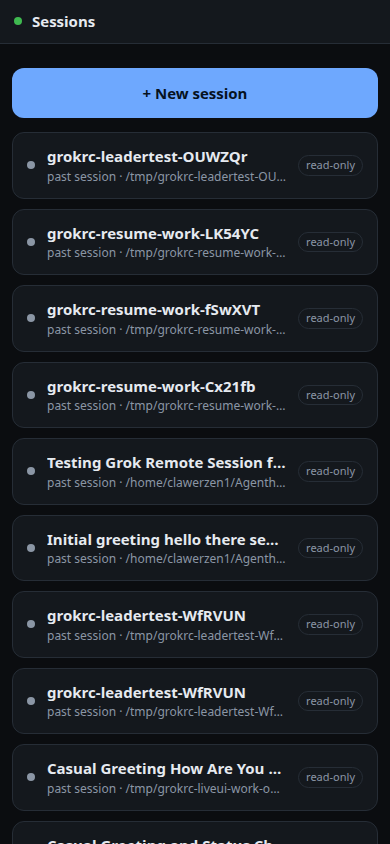
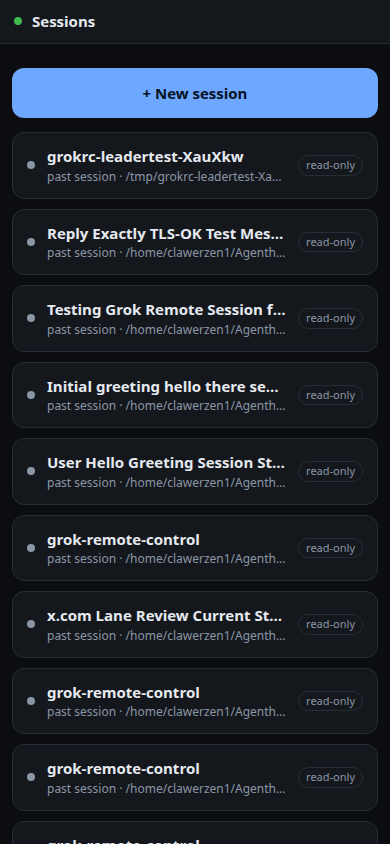
Harden session inputs, cap history, verify the HTTPS path
HTTPS VERIFIED END-TO-END (tools/https-e2e-check.mjs)
  The app is identical over TLS but the transport is not: the client speaks
  wss:// and every frame crosses the Tailscale proxy. If that proxy dropped the
  WebSocket upgrade the page would load and then silently never connect —
  nothing else in the suite covered it. Confirmed against the real origin:
  loads 200, secure context, pairs, wss:// upgrade succeeds, a real turn streams
  back ("TLS-OK"), service worker activated, VAPID fetched, zero console errors.

INPUT HARDENING (test/security.test.ts, 14 cases)
  `observe` and `resume` took a sessionId and cwd straight from the client and
  turned them into a filesystem path and a process SPAWN DIRECTORY. cwd was
  URL-encoded so it couldn't traverse, but the session id was interpolated raw —
  `../../..` escaped the session store. And resume would happily start an agent
  in any directory a paired client named.
  Both are post-auth, but a borrowed or stolen phone should not escalate into
  arbitrary filesystem reads or arbitrary working directories.
  Now: session ids must match a strict charset with no separators or dots; cwd
  must be absolute; the resolved path is re-checked against the session root;
  and resume requires the session to already exist on disk, which bounds the
  spawn directory to somewhere grok has actually run.

RESOURCE LIMITS
  WebSocket frames capped at 1 MiB — previously only HTTP bodies were bounded,
[…]

diff --git a/src/daemon/session-manager.ts b/src/daemon/session-manager.ts
@@ -12,7 +12,7 @@ import { EventEmitter } from 'node:events';
 import { randomUUID } from 'node:crypto';
 import { readFile, readdir, stat } from 'node:fs/promises';
 import { homedir } from 'node:os';
-import { join } from 'node:path';
+import { join, resolve as resolvePath } from 'node:path';
 import { AcpClient, type PermissionRequest } from '../acp/client.ts';
 import { StdioTransport, type Transport } from '../acp/transport.ts';
 import { SessionObserver } from './observer.ts';
@@ -34,6 +34,26 @@ const EVENT_LOG_LIMIT = 2000;
  * metadata that interleaves freely and must NOT split the message.
  */
 const INTERRUPTS_STREAM = new Set<RcEvent['k']>(['tool', 'plan', 'approval', 'error']);
+
+/**
+ * Session ids come from a remote client and become a filesystem path segment,
+ * so they are validated rather than trusted. Grok issues UUIDs; this accepts
+ * that shape plus a little slack, and nothing containing a separator or a dot.
+ */
+const SESSION_ID_RE = /^[A-Za-z0-9][A-Za-z0-9_-]{0,127}$/;
+
+function assertSafeSessionId(id: string): void {
+  if (typeof id !== 'string' || !SESSION_ID_RE.test(id)) {
+    throw new Error(`invalid session id: ${JSON.stringify(String(id).slice(0, 40))}`);
+  }
+}
+
+/** cwd becomes a path segment and a process spawn directory. */
+function assertSafeCwd(cwd: string): void {
+  if (typeof cwd !== 'string' || !cwd.startsWith('/')) {
+    throw new Error(`cwd must be an absolute path, got ${JSON.stringify(String(cwd).slice(0, 60))}`);
+  }
+}
 
 export type SessionMode = 'owned' | 'shared' | 'observed';
 
@@ -139,13 +159,22 @@ export class SessionManager extends EventEmitter {
    * hand in a terminal. Read-only. Idempotent; refcounted by watcher.
    */
   async observe(id: string, cwd: string): Promise<SessionInfo> {
+    assertSafeSessionId(id);
+    assertSafeCwd(cwd);
+
     const existing = this.#observed.get(id);
     if (existing) {
       existing.watchers++;
       return { ...existing.info };
     }
 
-    const dir = join(GROK_HOME, 'sessions', encodeURIComponent(cwd), id);
+    const sessionsRoot = join(GROK_HOME, 'sessions');
+    const dir = join(sessionsRoot, encodeURIComponent(cwd), id);
+    // Belt and braces: even with both inputs validated, confirm the resolved
+    // path never escapes the session store.
+    if (!resolvePath(dir).startsWith(resolvePath(sessionsRoot) + '/')) {
+      throw new Error('invalid session id: resolved outside the session store');
+    }
     const now = Date.now();
     const obs: ObservedSession = {
       info: {
@@ -298,8 +327,21 @@ export class SessionManager extends EventEmitter {
    * session/update notifications, which is why wiring happens before the call.
    */
   async resume(id: string, cwd: string, opts: { model?: string } = {}): Promise<SessionInfo> {
+    assertSafeSessionId(id);
+    assertSafeCwd(cwd);
+
     const existing = this.#sessions.get(id);
     if (existing) return { ...existing.info, pendingApprovals: existing.approvals.size };
+
+    // Resume spawns an agent with `cwd` as its working directory. Requiring the
+    // session to already exist on disk bounds that to somewhere grok has
+    // actually run, instead of letting a client name any directory on the box.
+    const dir = join(GROK_HOME, 'sessions', encodeURIComponent(cwd), id);
+    try {
+      if (!(await stat(dir)).isDirectory()) throw new Error('not a directory');
+    } catch {
+      throw new Error(`no persisted session ${id} under ${cwd}`);
+    }
 
     // Stop mirroring — we're about to own it.
     const obs = this.#observed.get(id);

diff --git a/test/security.test.ts b/test/security.test.ts
@@ -1,0 +1,80 @@
+/**
+ * Input hardening on the session paths.
+ *
+ * `observe` and `resume` take a sessionId and a cwd straight from the client and
+ * turn them into a filesystem path and a process spawn directory. Both are
+ * behind device auth, but a paired phone should still not be able to read
+ * arbitrary paths or start an agent in an arbitrary directory — a stolen or
+ * borrowed device shouldn't escalate into filesystem access.
+ *
+ * These assert the boundary directly rather than trusting that the UI only ever
+ * sends well-formed values.
+ */
+import { strict as assert } from 'node:assert';
+import { test, after } from 'node:test';
+import { mkdtemp, rm } from 'node:fs/promises';
+import { tmpdir } from 'node:os';
+import { join } from 'node:path';
+
+const tmp = await mkdtemp(join(tmpdir(), 'grokrc-sec-'));
+process.env.GROKRC_HOME = tmp;
+
+const { SessionManager } = await import('../src/daemon/session-manager.ts');
+
+const sessions = new SessionManager();
+
+after(async () => {
+  sessions.closeAll();
+  await rm(tmp, { recursive: true, force: true });
+});
+
+const TRAVERSAL_IDS = [
+  '../../../../etc',
+  '..',
+  '../..',
+  'a/../../b',
+  'foo/bar',
+  './x',
+  '',
+  'x'.repeat(300),
+];
+
+for (const id of TRAVERSAL_IDS) {
+  test(`observe rejects a malformed session id: ${JSON.stringify(id.slice(0, 24))}`, async () => {
+    await assert.rejects(
+      () => sessions.observe(id, '/tmp'),
+      /invalid session id/i,
+      `observe accepted ${JSON.stringify(id)}`
+    );
+  });
+}
+
+for (const id of ['../../../../etc', 'foo/bar', '']) {
+  test(`resume rejects a malformed session id: ${JSON.stringify(id)}`, async () => {
+    await assert.rejects(() => sessions.resume(id, '/tmp'), /invalid session id/i);
+  });
+}
+
+test('observe rejects a relative cwd', async () => {
+  await assert.rejects(
+    () => sessions.observe('019fcd7a-035c-7ab0-8999-a4c62160a35e', 'relative/path'),
+    /absolute/i
+  );
+});
+
+test('resume refuses a session that does not exist on disk', async () => {
+  // Bounds the spawn directory to somewhere grok has actually run, instead of
+  // letting a client name any directory on the machine.
+  await assert.rejects(
+    () => sessions.resume('019fcd7a-035c-7ab0-8999-a4c62160a35e', '/etc'),
+    /no persisted session/i
+  );
+});
+
+test('a well-formed id and absolute cwd are accepted', async () => {
+  // Nonexistent session, but the SHAPE is valid — observe tolerates a missing
+  // log because a session directory can appear before its log does.
+  const info = await sessions.observe('019fcd7a-035c-7ab0-8999-a4c62160a35e', '/tmp/nonexistent');
+  assert.equal(info.mode, 'observed');
+  sessions.unobserve('019fcd7a-035c-7ab0-8999-a4c62160a35e');
+});

diff --git a/src/daemon/server.ts b/src/daemon/server.ts
@@ -24,6 +24,12 @@ export interface ServerOptions {
   push?: PushService;
   /** Default cwd for sessions created from a client that doesn't name one. */
   defaultCwd?: string;
+  /**
+   * How many past (read-only) sessions to list. Live sessions are always shown.
+   * Grok accumulates a directory per session forever, so an uncapped list buries
+   * the one you actually want under months of history.
+   */
+  historyLimit?: number;
 }
 
 type ClientMsg =
@@ -69,7 +75,9 @@ export class RemoteControlServer {
     this.#opts = { host: opts.host ?? '127.0.0.1', port: opts.port ?? 4319, ...opts };
 
     this.#http = createServer((req, res) => void this.#onHttp(req, res));
-    this.#wss = new WebSocketServer({ server: this.#http });
+    // Cap frame size so a hostile or buggy client can't exhaust memory with one
+    // message. Prompts are text; 1 MiB is generous.
+    this.#wss = new WebSocketServer({ server: this.#http, maxPayload: 1024 * 1024 });
     this.#wss.on('connection', (ws) => this.#onConnection(ws));
 
     // Fan out every session event to the clients watching that session.
@@ -518,11 +526,13 @@ export class RemoteControlServer {
 
   async #sendSessions(client: Client): Promise<void> {
     const live = this.#opts.sessions.list();
-    const onDisk = await this.#opts.sessions.discoverOnDisk();
+    const limit = this.#opts.historyLimit ?? 10;
+    const onDisk = await this.#opts.sessions.discoverOnDisk(limit);
     const liveIds = new Set(live.map((s) => s.id));
+    // Live sessions always appear; history is capped to the most recent.
     send(client.ws, {
       t: 'sessions',
-      sessions: [...live, ...onDisk.filter((s) => !liveIds.has(s.id))],
+      sessions: [...live, ...onDisk.filter((s) => !liveIds.has(s.id)).slice(0, limit)],
     });
   }
 

diff --git a/src/cli.ts b/src/cli.ts
@@ -65,6 +65,7 @@ grokrc — remote control for Grok Build
       --model <M>      Model override for new sessions
       --cwd <DIR>      Default working directory for new sessions
       --pair           Print a pairing code even if devices are already paired
+      --history <N>    How many past sessions to list (default 10)
       --relay <URL>    Dial OUT to a relay — no inbound port, works on cellular
       --room <ID>      Relay room id (generated if omitted)
       --relay-key <K>  Relay room key (generated if omitted)
@@ -101,6 +102,7 @@ async function cmdUp(flags: Flags): Promise<void> {
     auth,
     push: flags['no-push'] === true ? undefined : push,
     defaultCwd: typeof flags.cwd === 'string' ? resolve(flags.cwd) : process.cwd(),
+    historyLimit: flags.history !== undefined ? Number(flags.history) : undefined,
   });
 
   // Say so loudly if the agent will never ask for approval — otherwise the
